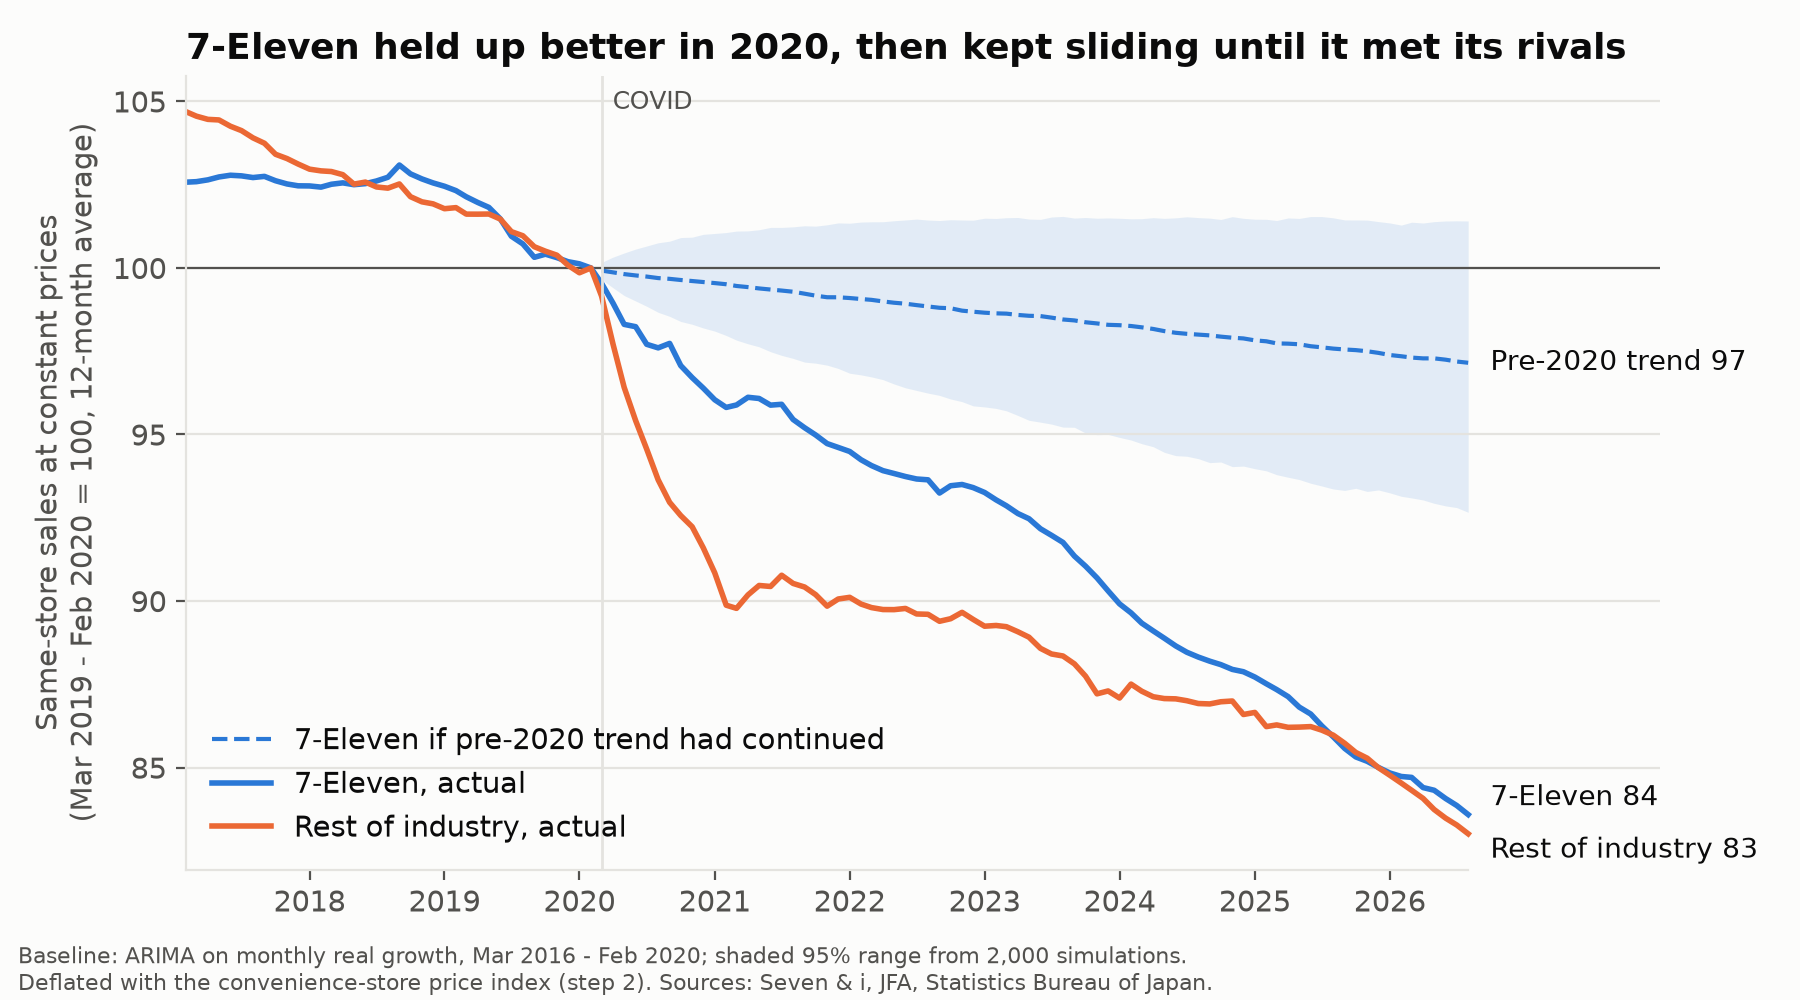
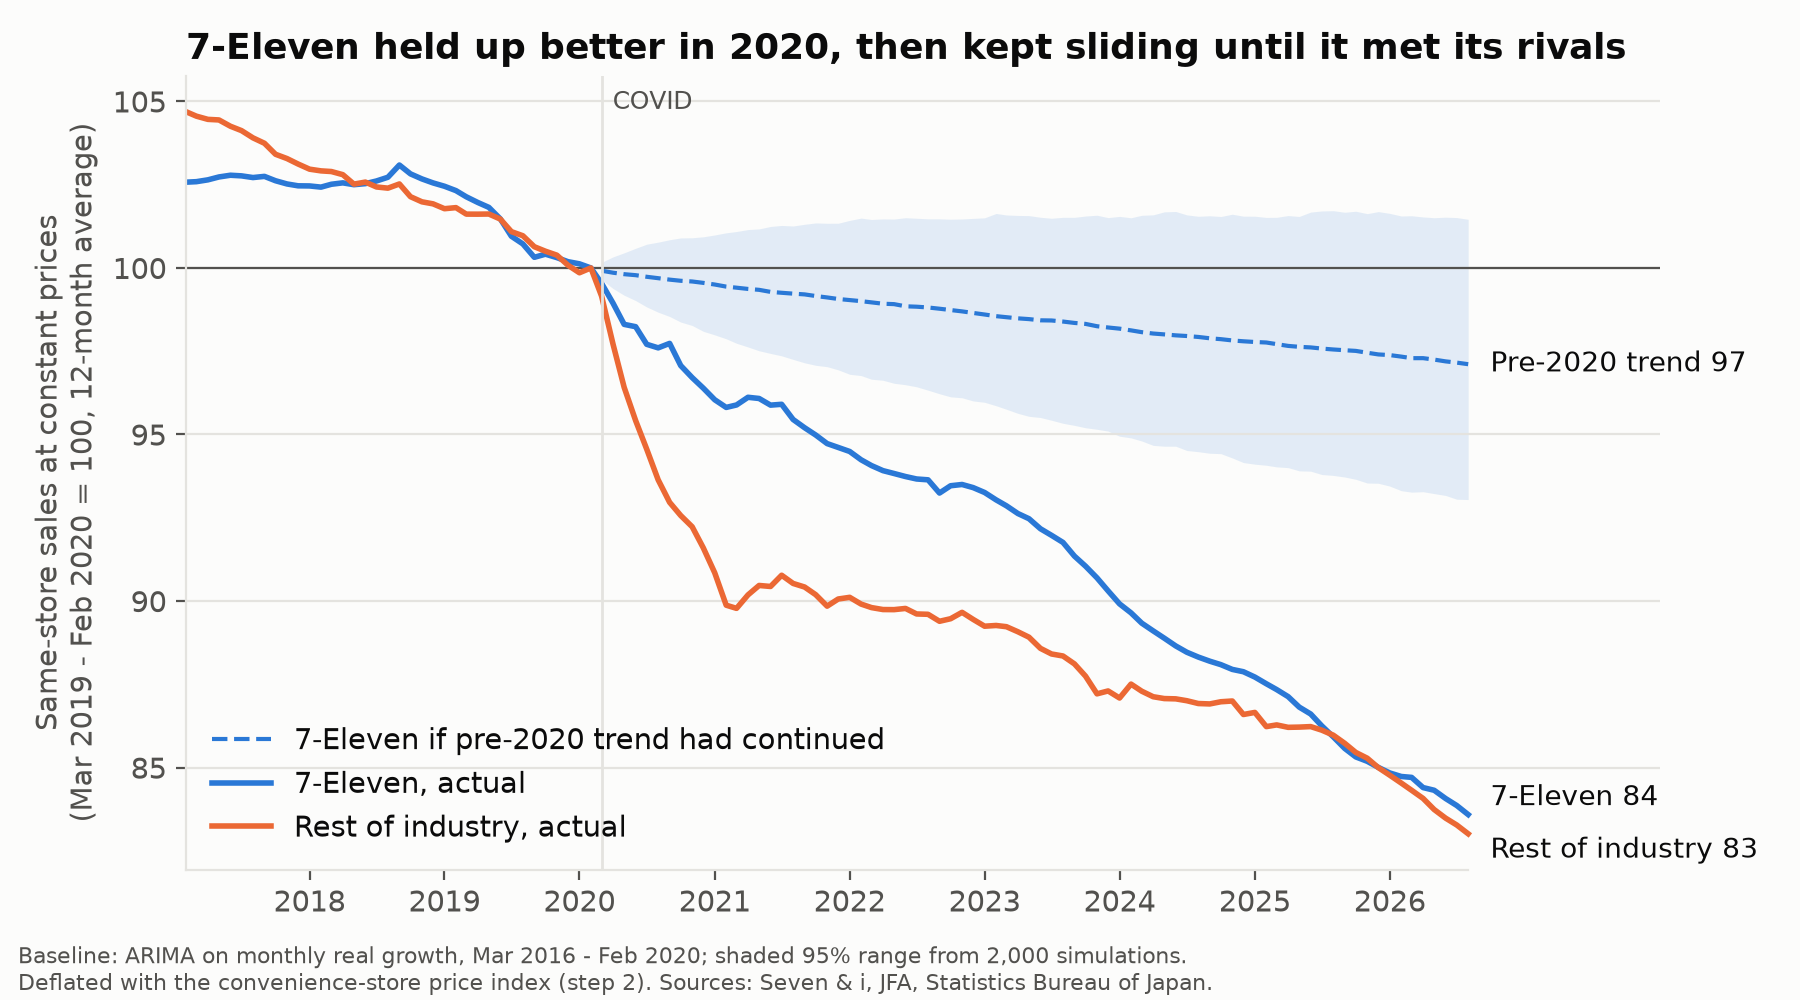
Make Part 2 forecast simulations reproducible
statsmodels ignores numpy's global seed; pass an explicit generator so
reruns give identical ranges, and update the README to the fixed numbers.

diff --git a/src/06_part2_forecast.py b/src/06_part2_forecast.py
@@ -4,7 +4,8 @@ Real volume = same-store sales at constant prices (customers x real basket).
 Model: monthly volume growth (vs. a year earlier) before COVID, Mar 2016 - Feb 2020,
 as an ARIMA process with a constant. The forecast runs from Mar 2020 to the latest
 month, and is chained into a level so it can be compared with what happened.
-Uncertainty: 2,000 simulated paths from the fitted model give a 95% range.
+Uncertainty: 2,000 simulated paths from the fitted model give a 95% range
+(fixed random seed, so reruns give identical results).
 
 The same is done for the rest of the industry, so the two gaps can be compared.
 This is a "what if trends had continued" baseline, not a causal estimate: it
@@ -32,7 +33,7 @@ series = {"7-Eleven": real_growth(prices["same_store_sales_yoy_pct"]),
 
 TRAIN = ("2016-03-01", "2020-02-01")
 SIMS = 2000
-np.random.seed(42)  # simulations are reproducible
+rng = np.random.default_rng(42)  # one generator, so simulations are reproducible
 
 
 def rolling12(matrix):
@@ -48,7 +49,7 @@ for name, growth in series.items():
     model = ARIMA(train, order=(1, 0, 0), trend="c").fit()
     n_train, horizon = len(train), len(growth) - len(train)
     sims = model.simulate(nsimulations=horizon, repetitions=SIMS,
-                          anchor="end").to_numpy().reshape(horizon, SIMS)
+                          anchor="end", rng=rng).to_numpy().reshape(horizon, SIMS)
 
     # Actual level: chain growth from a flat first year, then set Mar 2019 - Feb 2020 = 100
     level = np.ones(len(growth)) * 100.0

diff --git a/README.md b/README.md
@@ -88,7 +88,7 @@ An ARIMA model is fitted to 7-Eleven's monthly real sales growth from March 2016
 |---|---|---|
 | Trend before 2020 | -0.4% a year | -1.6% a year |
 | vs. Mar 2019 - Feb 2020 | -16.4% | -17.0% |
-| vs. its own pre-2020 trend | **-14.0%** (range -17.8 to -10.1) | **-7.6%** (range -9.4 to -5.9) |
+| vs. its own pre-2020 trend | **-13.9%** (range -17.6 to -10.2) | **-7.6%** (range -9.2 to -5.8) |
 
 - The two ranges don't overlap: 7-Eleven has fallen further from its own path than its rivals have from theirs.
 - 7-Eleven's pre-2020 advantage was holding volume steady while the rest of the industry shrank. That advantage is gone.
